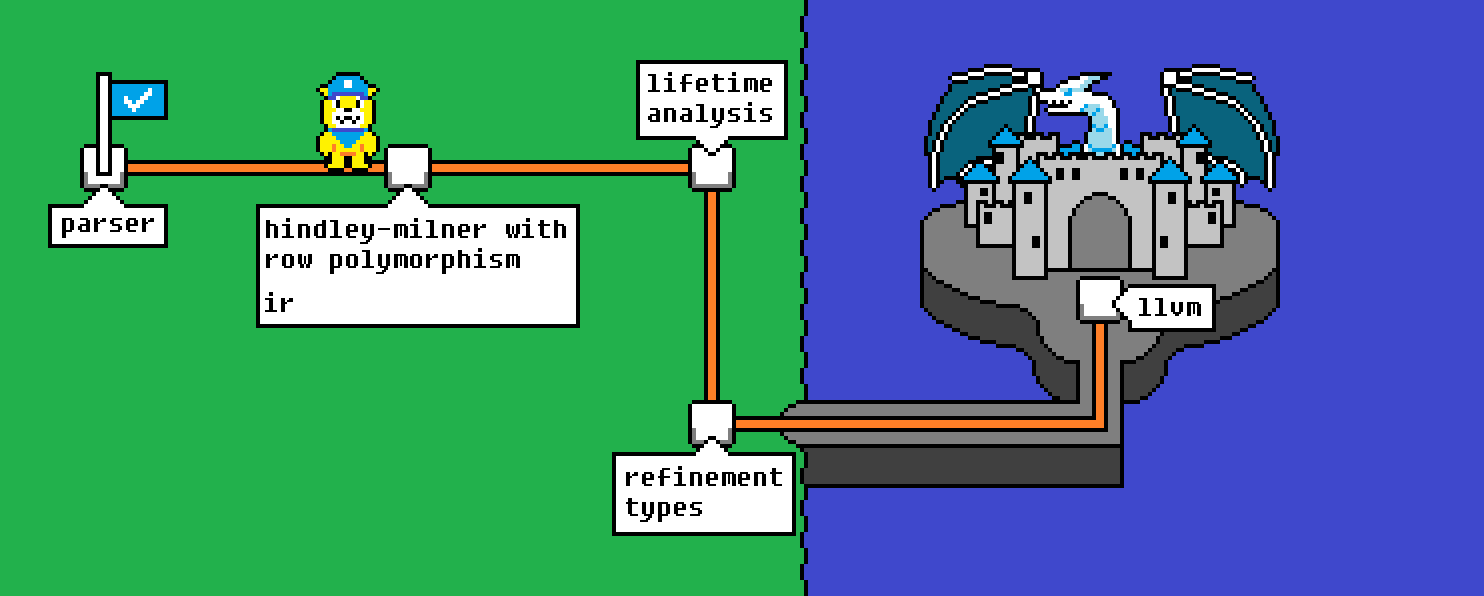
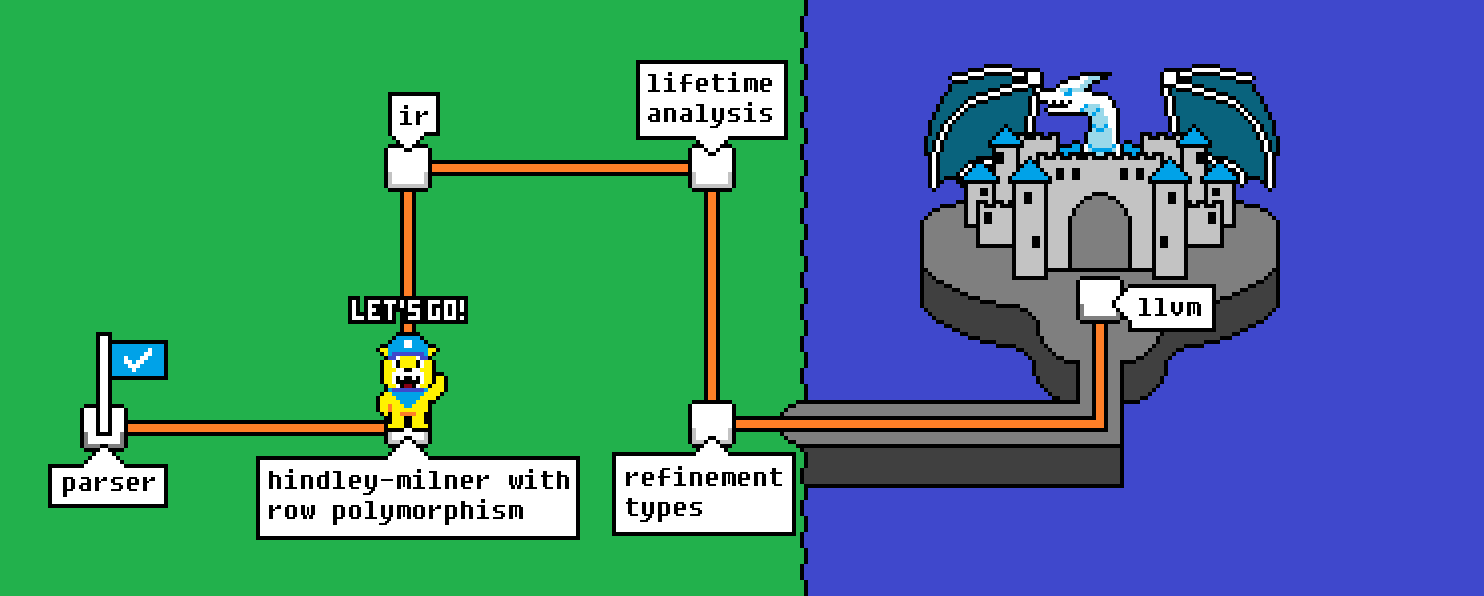
update roadmap

Changed region(s): [[0.031, 0.1208, 0.403, 0.906], [0.465, 0.7248, 0.496, 0.755], [0.465, 0.302, 0.496, 0.3322]]

diff --git a/README.md b/README.md
@@ -30,4 +30,4 @@ Butter is still in development, I have a [plan](./doc/plan.md) to make this poss
 
 ## Road map
 
-[![A road map for the Butter programming language, depicted in the form style a retro video game map. A single road snakes from right-to-left, with multiple stops, ending with a causeway leading to a castle in the middle of a lake. A flag is placed on the first stop. The project mascot (a cute yellow bear) is arriving at the second stop. The stops on the road are: parser, Hindley-Milner with row polymorphism and IR, lifetime analysis, refinement types, and finally LLVM. An enormous dragon looms behind the castle.](./roadmap.png "Road map")](https://github.com/neverRare/butter/projects/1)
+[![A road map for the Butter programming language, depicted in the form style a retro video game map. A single road snakes from right-to-left, with multiple stops, ending with a causeway leading to a castle in the middle of a lake. A flag is placed on the first stop. The project mascot (a cute yellow bear) is at the second stop and exclaims "Let's Go!". The stops on the road are: parser, Hindley-Milner with row polymorphism, IR, lifetime analysis, refinement types, and finally LLVM. An enormous dragon looms behind the castle.](./roadmap.png)](https://github.com/neverRare/butter/projects/1)
